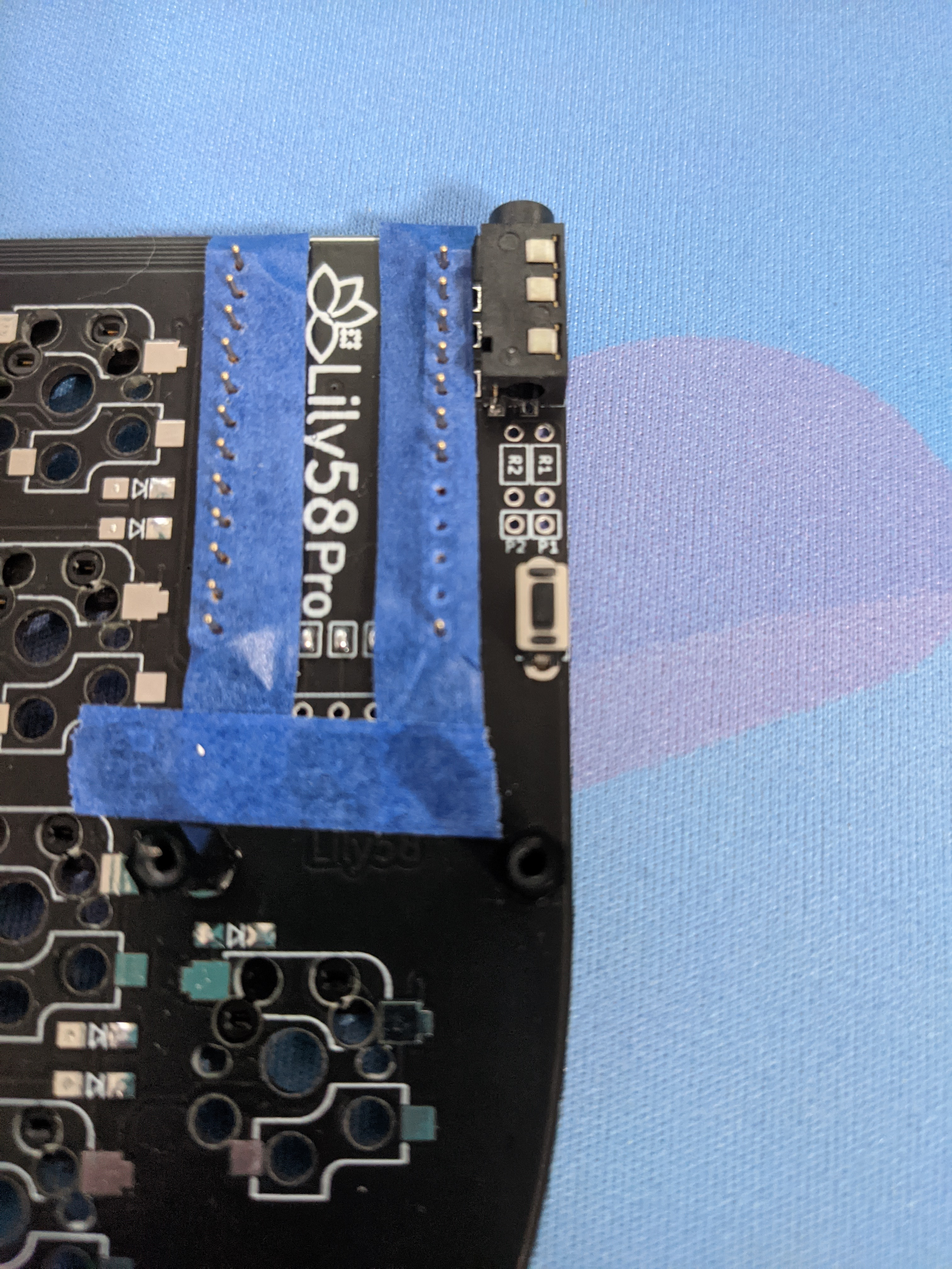
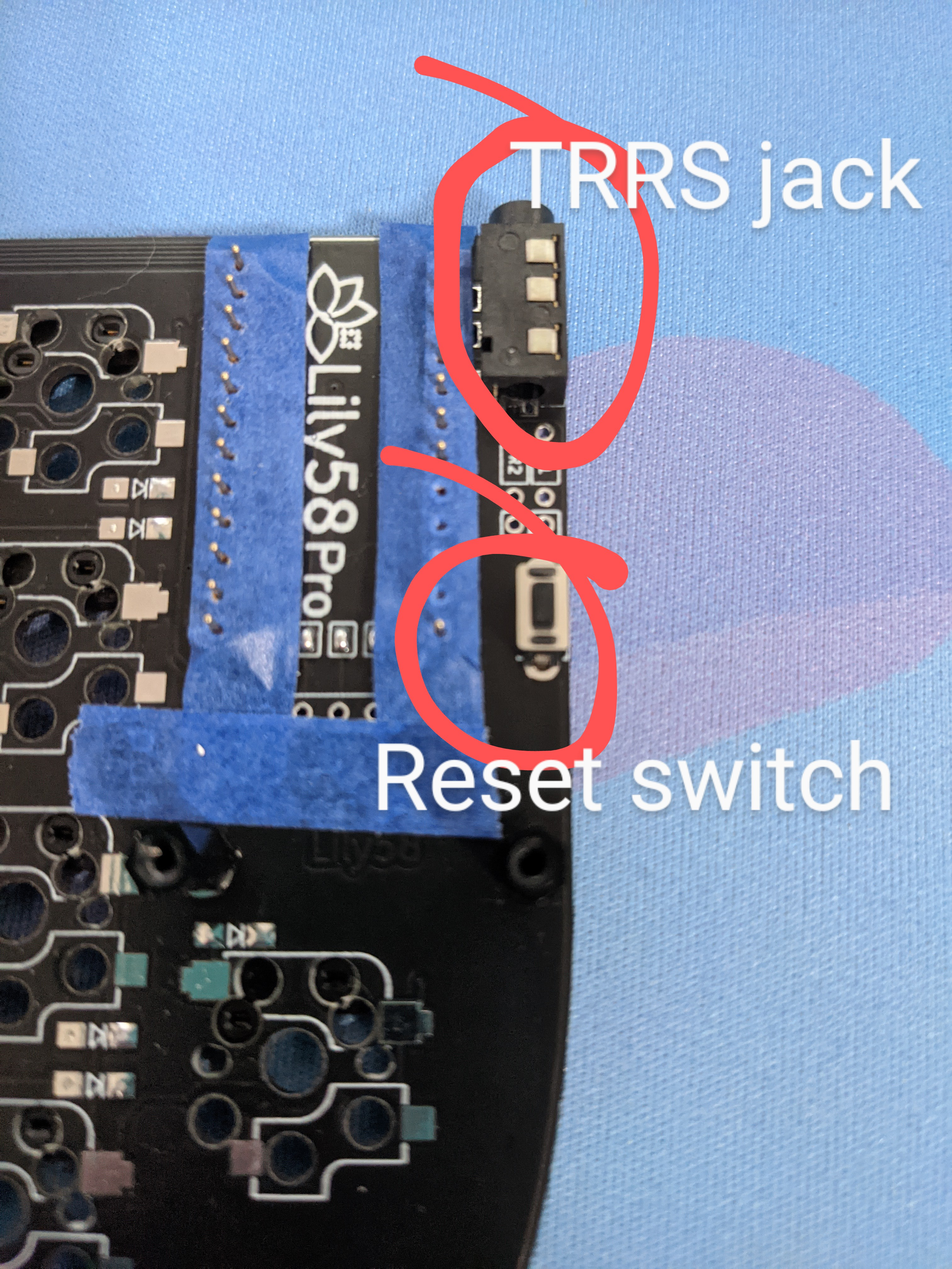
Added header, clarifying captions to a few of the images, modified the image in step 4, and minor details to step 6 and the customizing firmware sections.

Changed region(s): [[0.373, 0.0312, 0.9636, 0.6562]]

diff --git a/README.md b/README.md
@@ -1,3 +1,9 @@
+# Lily58 Pro Build Guide
+
+Written: February 2021
+
+Last Updated: February 2021
+
 # Materials Needed
 
 ## Came with kit
@@ -55,6 +61,7 @@ The sockets will also be soldered to the bottom (untaped) side of each PCB.
 
 If you are using Kailh sockets, you will use the socket outline oriented at the top of each switch's space (the soldered pieces in the picture below).  If you are using choc sockets, you will use the socket outline oriented at the bottom of each switches space (the unused outline space shown in the picture below).
 
+*FYI: The soldering work on the components in the top left corner of the picture below is from future steps.*
 ![Hotswap sockets installed on Lily58 PCB](images/hotswap.jpg)
 
 Use the same approach to solder the hotswap sockets as you did for the SMD diodes: pre-apply solder to one side, place the socket on the PCB, melt the solder to attach the first side of the socket, then apply solder to the other side to fully attach the component.
@@ -65,13 +72,14 @@ Double check that each hotswap socket is firmly in place. Remember you will be p
 
 Each PCB will get one TRRS jack and one reset switch installed on the top (taped) side of the PCB, in the upper inner corner.
 
+*Note: The pins (and sockets, under the blue tape) shown to the left of the TRRS jack and reset switch in the image below were added in a future step.*
 ![Front of Lily58 PCB with TRRS jack and reset switch](images/TRRS_reset.jpg)
 
 Place each component, hold in place with masking/washi tape if necessary, turn the PCBs over, and solder in place.  Each TRRS jack should have 4 pins to solder and each reset switch should have 2 pins to solder.
 
 # Step 5: Prep the OLED display
 
-At the end of the Lily58 logo on the top (taped) side each PCB, there are four jumper terminals.  Apply solder to bridge each pair.
+At the end of the Lily58 logo on the top (taped) side each PCB, there are four jumper terminals.  Apply solder to bridge each pair, shown in the top of the circled area in the image below.
 
 ![Four jumper terminals to be bridged](images/bridges.jpg)
 
@@ -95,7 +103,7 @@ After verifying that both ProMicros work, you can install them by following thes
 
 ![Pins pressed into ProMicro and sockets](images/promicro_pins.jpg)
 
-* Solder each pin to the ProMicro.
+* Solder each pin to the ProMicro.  If you used leftover wires from other components, you will want to cut the excess wire off (close to the solder joint).
 * Pull the ProMicro out of the sockets, remove the tape. Press the ProMicro back into the sockets.
 
 # Step 7: Install the OLED screens
@@ -137,7 +145,7 @@ You're almost there!
 
 Plug each side of a TRRS cable into the PCBs.
 
-Plug a USB micro cable into the left side PCB, and the other end of the cable into your device.
+Plug a USB micro cable into the left side PCB, and the other end of the cable into your device. (If you want to plug the USB cable into the right side instead, see the section below about firmware changes.)
 
 If you already flashed your firmware as suggested in step 6 above, you are ready to go!  If you haven't flashed your firmware yet, or you skipped down here to figure out how to flash firmware as part of step 6, read on.
 
@@ -170,7 +178,11 @@ mkdir custom_example
 cp default/* custom_example/
 ```
 
-Now edit `custom_example/keymap.c` as you like using the [QMK keycodes](https://docs.qmk.fm/#/keycodes).  When you're ready, compile and flash:
+Now edit `custom_example/keymap.c` as you like using the [QMK keycodes](https://docs.qmk.fm/#/keycodes).  
+
+As noted above, if you want to plug your USB cable into the right side instead of the (default) left side, you'll also need to edit one line in `config.h` in your `custom_example` folder. Change `#define MASTER_LEFT` to `#define MASTER_RIGHT`.
+
+When you're ready, compile and flash:
 
 ```
 qmk compile -kb lily58 -km custom_example
